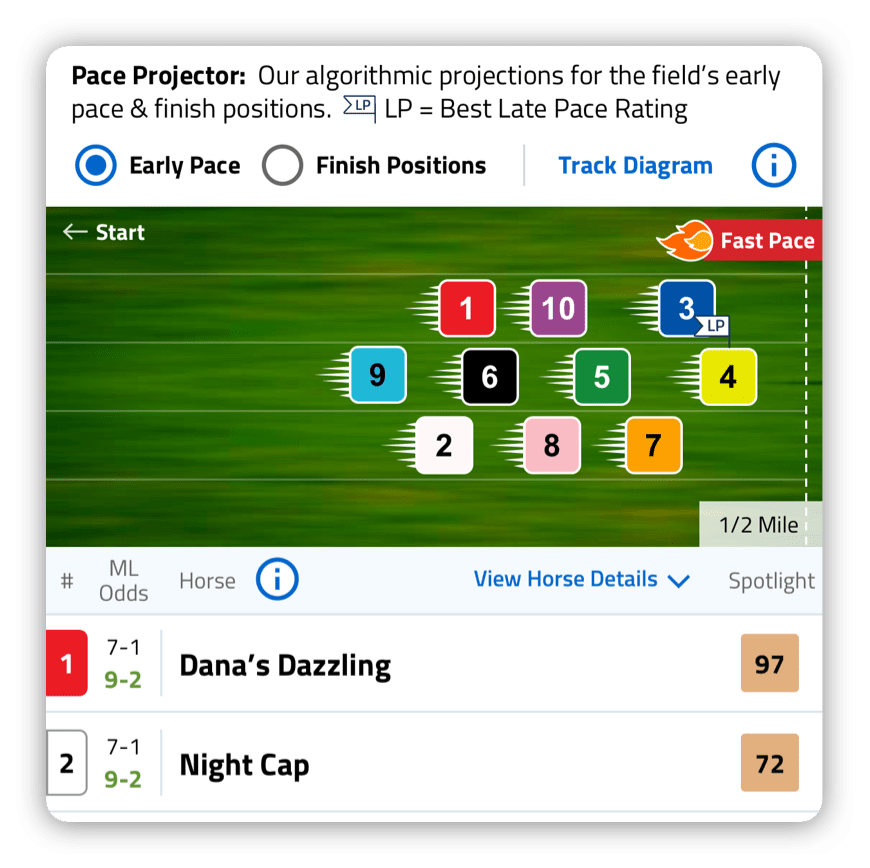
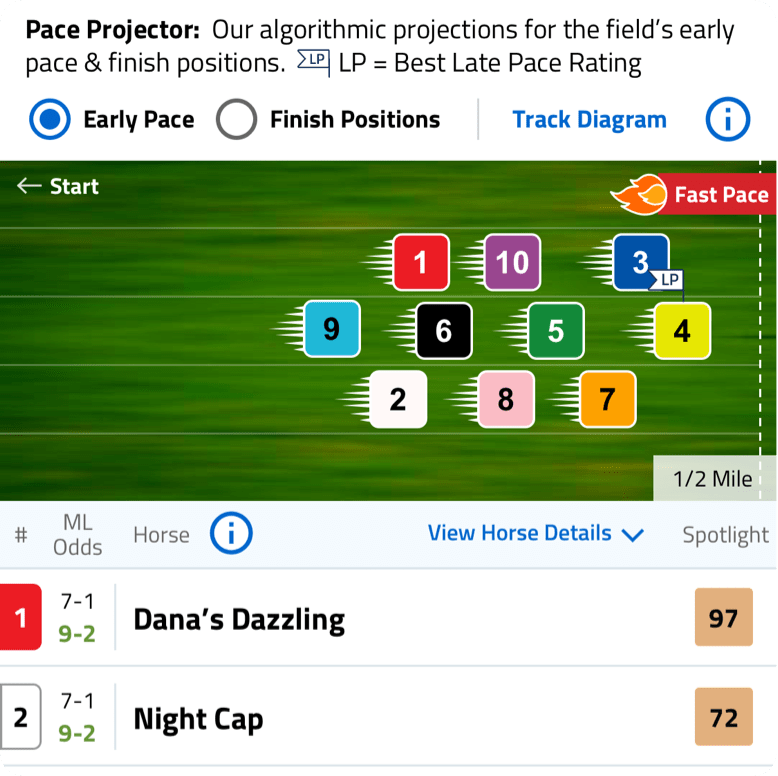
SSTF-6386 replace images

diff --git a/index.html b/index.html
@@ -9,7 +9,7 @@
   <link href="https://fonts.googleapis.com/css?family=Alfa+Slab+One&display=swap" rel="stylesheet" />
   <link href="https://fonts.googleapis.com/css2?family=Titillium+Web:wght@400;600;700;900&amp;display=swap"
     rel="stylesheet" />
-  <title>Formulator</title>
+  <title>TimeFormUS</title>
 
   <style data-name="allPagesWeb">
     @media screen and (min-width: 768px) {
@@ -1292,6 +1292,10 @@
       flex: 1;
     }
 
+    .paceProjInfoBox {
+      margin-bottom: 24px;
+    }
+
     .elementImg {
       align-self: center;
       position: relative;
@@ -1467,12 +1471,13 @@
       background: rgb(2,0,36);
       margin-bottom: 0;
       background-image: linear-gradient(90deg, rgba(2,0,36,1) 0%, rgba(0,102,204,1) 100%);
+      
     }
 
     .addInfo img {
-      max-height: 439px;
-      aspect-ratio: 213/439;
-      min-height: 439px;
+      max-height: 360px;
+      aspect-ratio: 375/360;
+      min-height: 360px;
       margin : 0 auto;
     }
 
@@ -1522,6 +1527,22 @@
       color: #06c;
       font-family: "Titillium Web", sans-serif;
       font-weight: 600;
+    }
+
+    .addInfo div:last-child .actionBtn:hover,
+    .addInfo div:last-child .actionBtn:active {
+      background: #06c;
+      color: #ffffff;
+    }
+
+    .backLink:hover svg path,
+    .backLink:active svg path {
+      fill: #000000;
+    }
+
+    .backLink:hover a,
+    .backLink:active a{
+      color: #000000;
     }
 
     @media screen and (min-width: 455px) {
@@ -1606,6 +1627,11 @@
 
       .paceProjList {
         width: calc(100% - 204px);
+      }
+
+      .paceProjInfoBox {
+        padding-right: 42px;
+        margin-bottom: 0;
       }
 
       .paceProjInfoBox h3 {
@@ -2802,15 +2828,15 @@
         </div>
         <div class="trackImageWrap">
           <div class="dirt">
-            <img src="images/dirtImage.png"/>
+            <img src="images/dirtImage.png" alt="dirt"/>
             <span>Dirt</span>
           </div>
           <div class="turf">
-            <img src="images/turfImage.png"/>
+            <img src="images/turfImage.png" alt="turf"/>
             <span>Turf</span>
           </div>
           <div class="synthetic">
-            <img src="images/syntheticImage.png"/>
+            <img src="images/syntheticImage.png" alt="synthetic"/>
             <span>Synthetic</span>
           </div>
         </div>
@@ -2843,7 +2869,7 @@
             </p>
           </div>
           <div class="elementImg">
-            <img src="images/earlyPace.png"/>
+            <img src="images/earlyPace.png" alt="Early Pace"/>
           </div>
         </div>
         <div class="tabCnt contentTwo hide" id="finishPosition">
@@ -2864,7 +2890,7 @@
             </div>
           </div>
           <div class="elementImg">
-            <img src="images/finishPos.png"/>
+            <img src="images/finishPos.png" alt="Finish Positions"/>
           </div>
         </div>
         <div class="tabCnt contentThree hide" id="paceFlags">
@@ -2881,7 +2907,7 @@
             </div>
           </div>
           <div class="elementImg">
-            <img src="images/paceFlags.png"/>
+            <img src="images/paceFlags.png" alt="Pace Flags"/>
           </div>
         </div>
         <div class="tabCnt contentFour hide" id="latePaceRating">
@@ -2893,7 +2919,7 @@
             </p>
           </div>
           <div class="elementImg">
-            <img src="images/paceRating.png"/>
+            <img src="images/paceRating.png" alt="Best late Pace Rating"/>
           </div>
         </div>
         <div class="rightCnt"></div>
@@ -2903,12 +2929,12 @@
           <h2 class="sectionTitle">How TFUS PPs Work</h2>
           <div class="tfusBox tfusSpeedFig">
             <div class="imgBox mobileHide">
-              <img src='images/tfusSpeedFig.png'/>
+              <img src='images/tfusSpeedFig.png' alt="TimeFormUs Speed Figures"/>
             </div>
             <div class="mobileShow headImgBox">
               <h4>TFUS Speed Figures</h4>
               <div class="imgBox">
-                <img src='images/tfusSpeedFigMob.png'/>
+                <img src='images/tfusSpeedFigMob.png' alt="TimeFormUs Speed Figures"/>
               </div>
             </div>
             <div class="tfusInfo">
@@ -2923,12 +2949,12 @@
           </div>
           <div class="tfusBox spotlightFig">
             <div class="imgBox mobileHide">
-              <img src='images/spotlightFig.png'/>
+              <img src='images/spotlightFig.png' alt="TimeFormUs Spotlight Figures"/>
             </div>
             <div class="mobileShow headImgBox">
               <h4>Spotlight Figures</h4>
               <div class="imgBox">
-                <img src='images/spotLightFigMob.png'/>
+                <img src='images/spotLightFigMob.png' alt="TimeFormUs Spotlight Figures"/>
               </div>
             </div>
             <div class="tfusInfo">
@@ -2957,12 +2983,12 @@
           </div>
           <div class="tfusBox timeformSel">
             <div class="imgBox mobileHide">
-              <img src='images/timeFormSel.png'/>
+              <img src='images/timeFormSel.png' alt="TimeFormUs Selection"/>
             </div>
             <div class="mobileShow headImgBox">
               <h4>TimeformUS Selection</h4>
               <div class="imgBox">
-                <img src='images/timeformSelMob.png'/>
+                <img src='images/timeformSelMob.png' alt="TimeFormUs Selection"/>
               </div>
             </div>
             <div class="tfusInfo">
@@ -3015,7 +3041,7 @@
         </div>
         <div>
           <h2 class="sectionTitle mobileShow">Pace Ratings</h2>
-          <img src='images/paceRatings.png'/>
+          <img src='images/paceRatings.png' alt="Pace Ratings"/>
         </div>
       </section>
       <section class="topEarlyLate">
